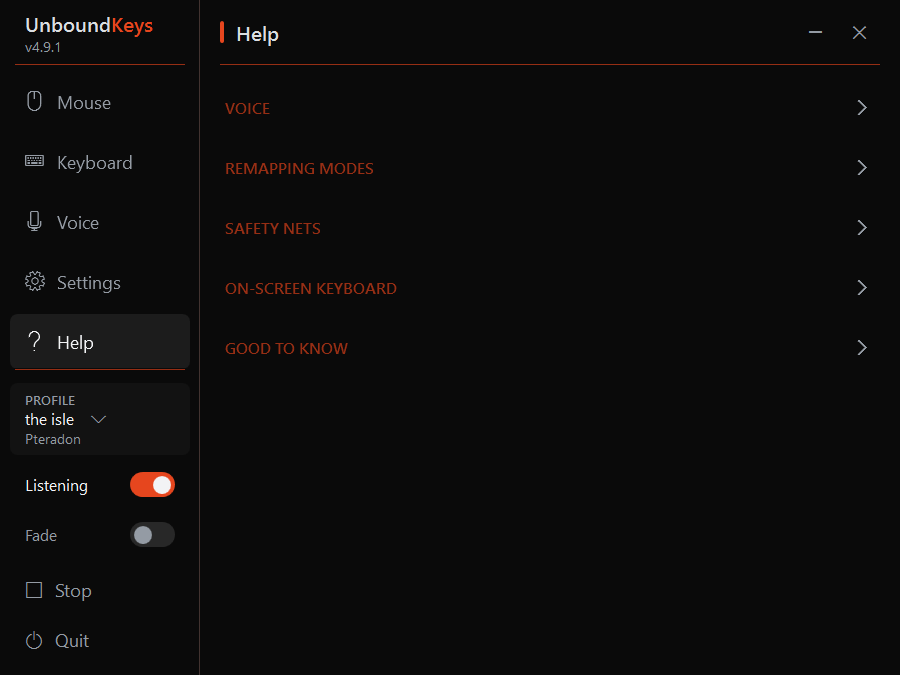
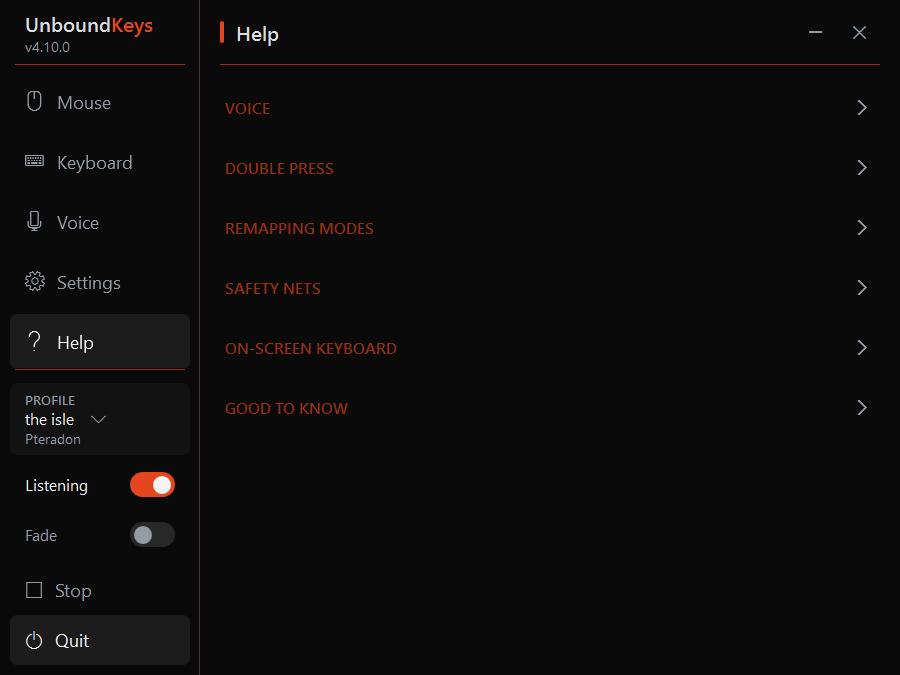
Screenshots at 4.10.0: the editor picture is now a mouse button's, with its Single press / Double press segments and Reset both; the capture tool takes -EditorChip

diff --git a/README.md b/README.md
@@ -10,7 +10,7 @@ Remap mouse buttons, spoken words and an on-screen keyboard to keyboard keys, wi
   <img src="Assets/screenshots/UBK-Voice.png" width="32%" alt="The Voice page: the always-available commands and the ten spoken words as a keypad" />
 </p>
 <p float="left">
-  <img src="Assets/screenshots/UBK-Editor.png" width="32%" alt="A mapping editor: its keys, Tap / Repeat / Rotation / Hold, duration, Infinite and the Infinite pause" />
+  <img src="Assets/screenshots/UBK-Editor.png" width="32%" alt="A mouse button's editor: Single press and Double press, its keys, Tap / Repeat / Rotation / Hold, duration, Infinite, the Infinite pause, and Reset both" />
   <img src="Assets/screenshots/UBK-Settings.png" width="32%" alt="Settings: eight fold-away sections, each summarising its state while closed" />
   <img src="Assets/screenshots/UBK-Help.png" width="32%" alt="The Help page: the manual in one page, one fold per topic" />
 </p>
